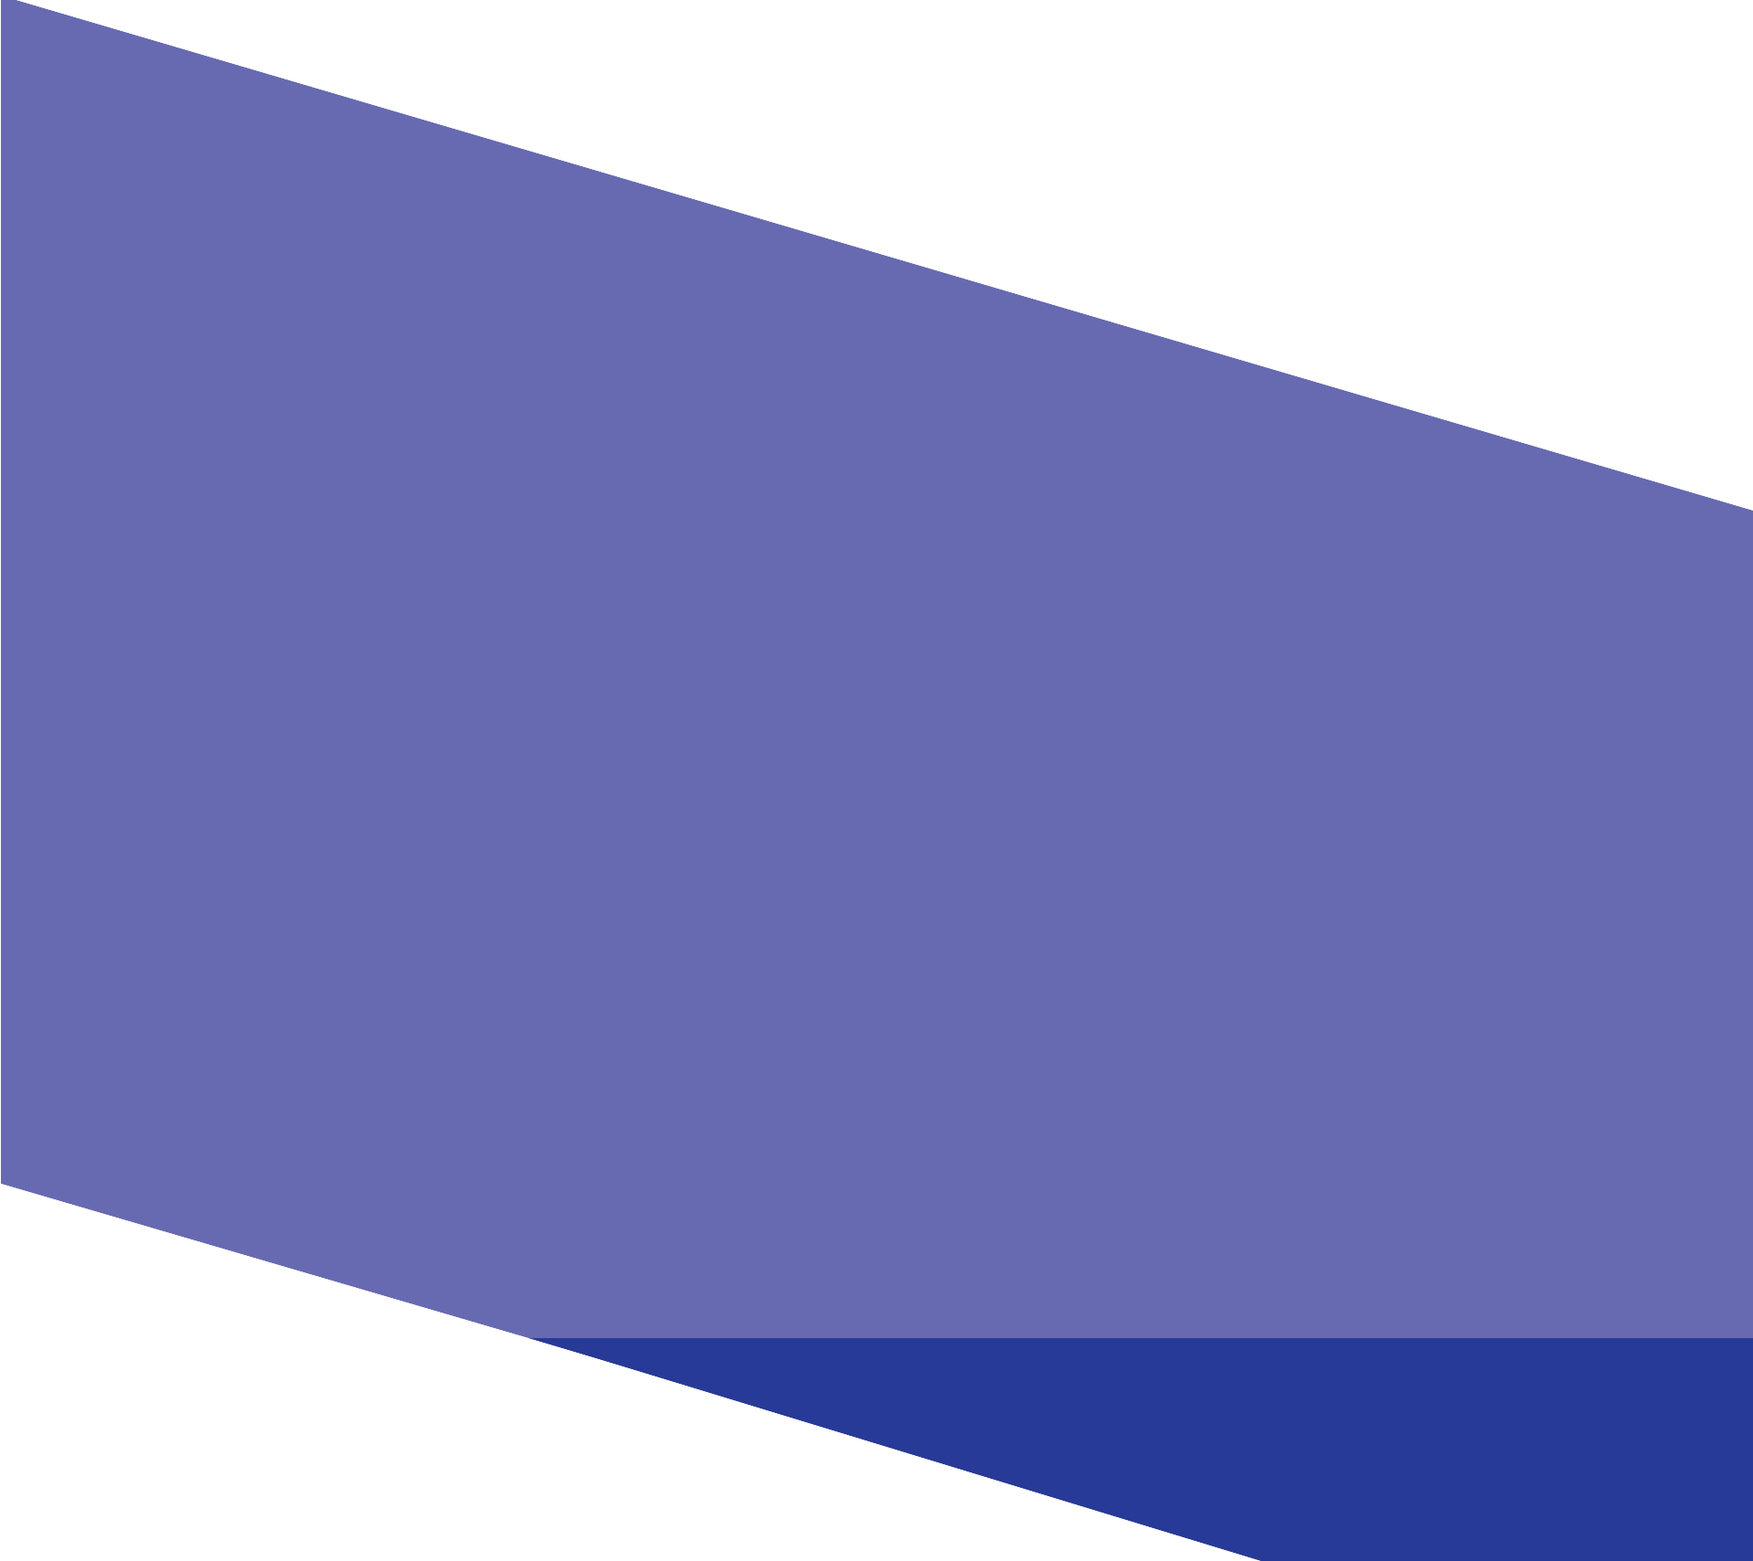
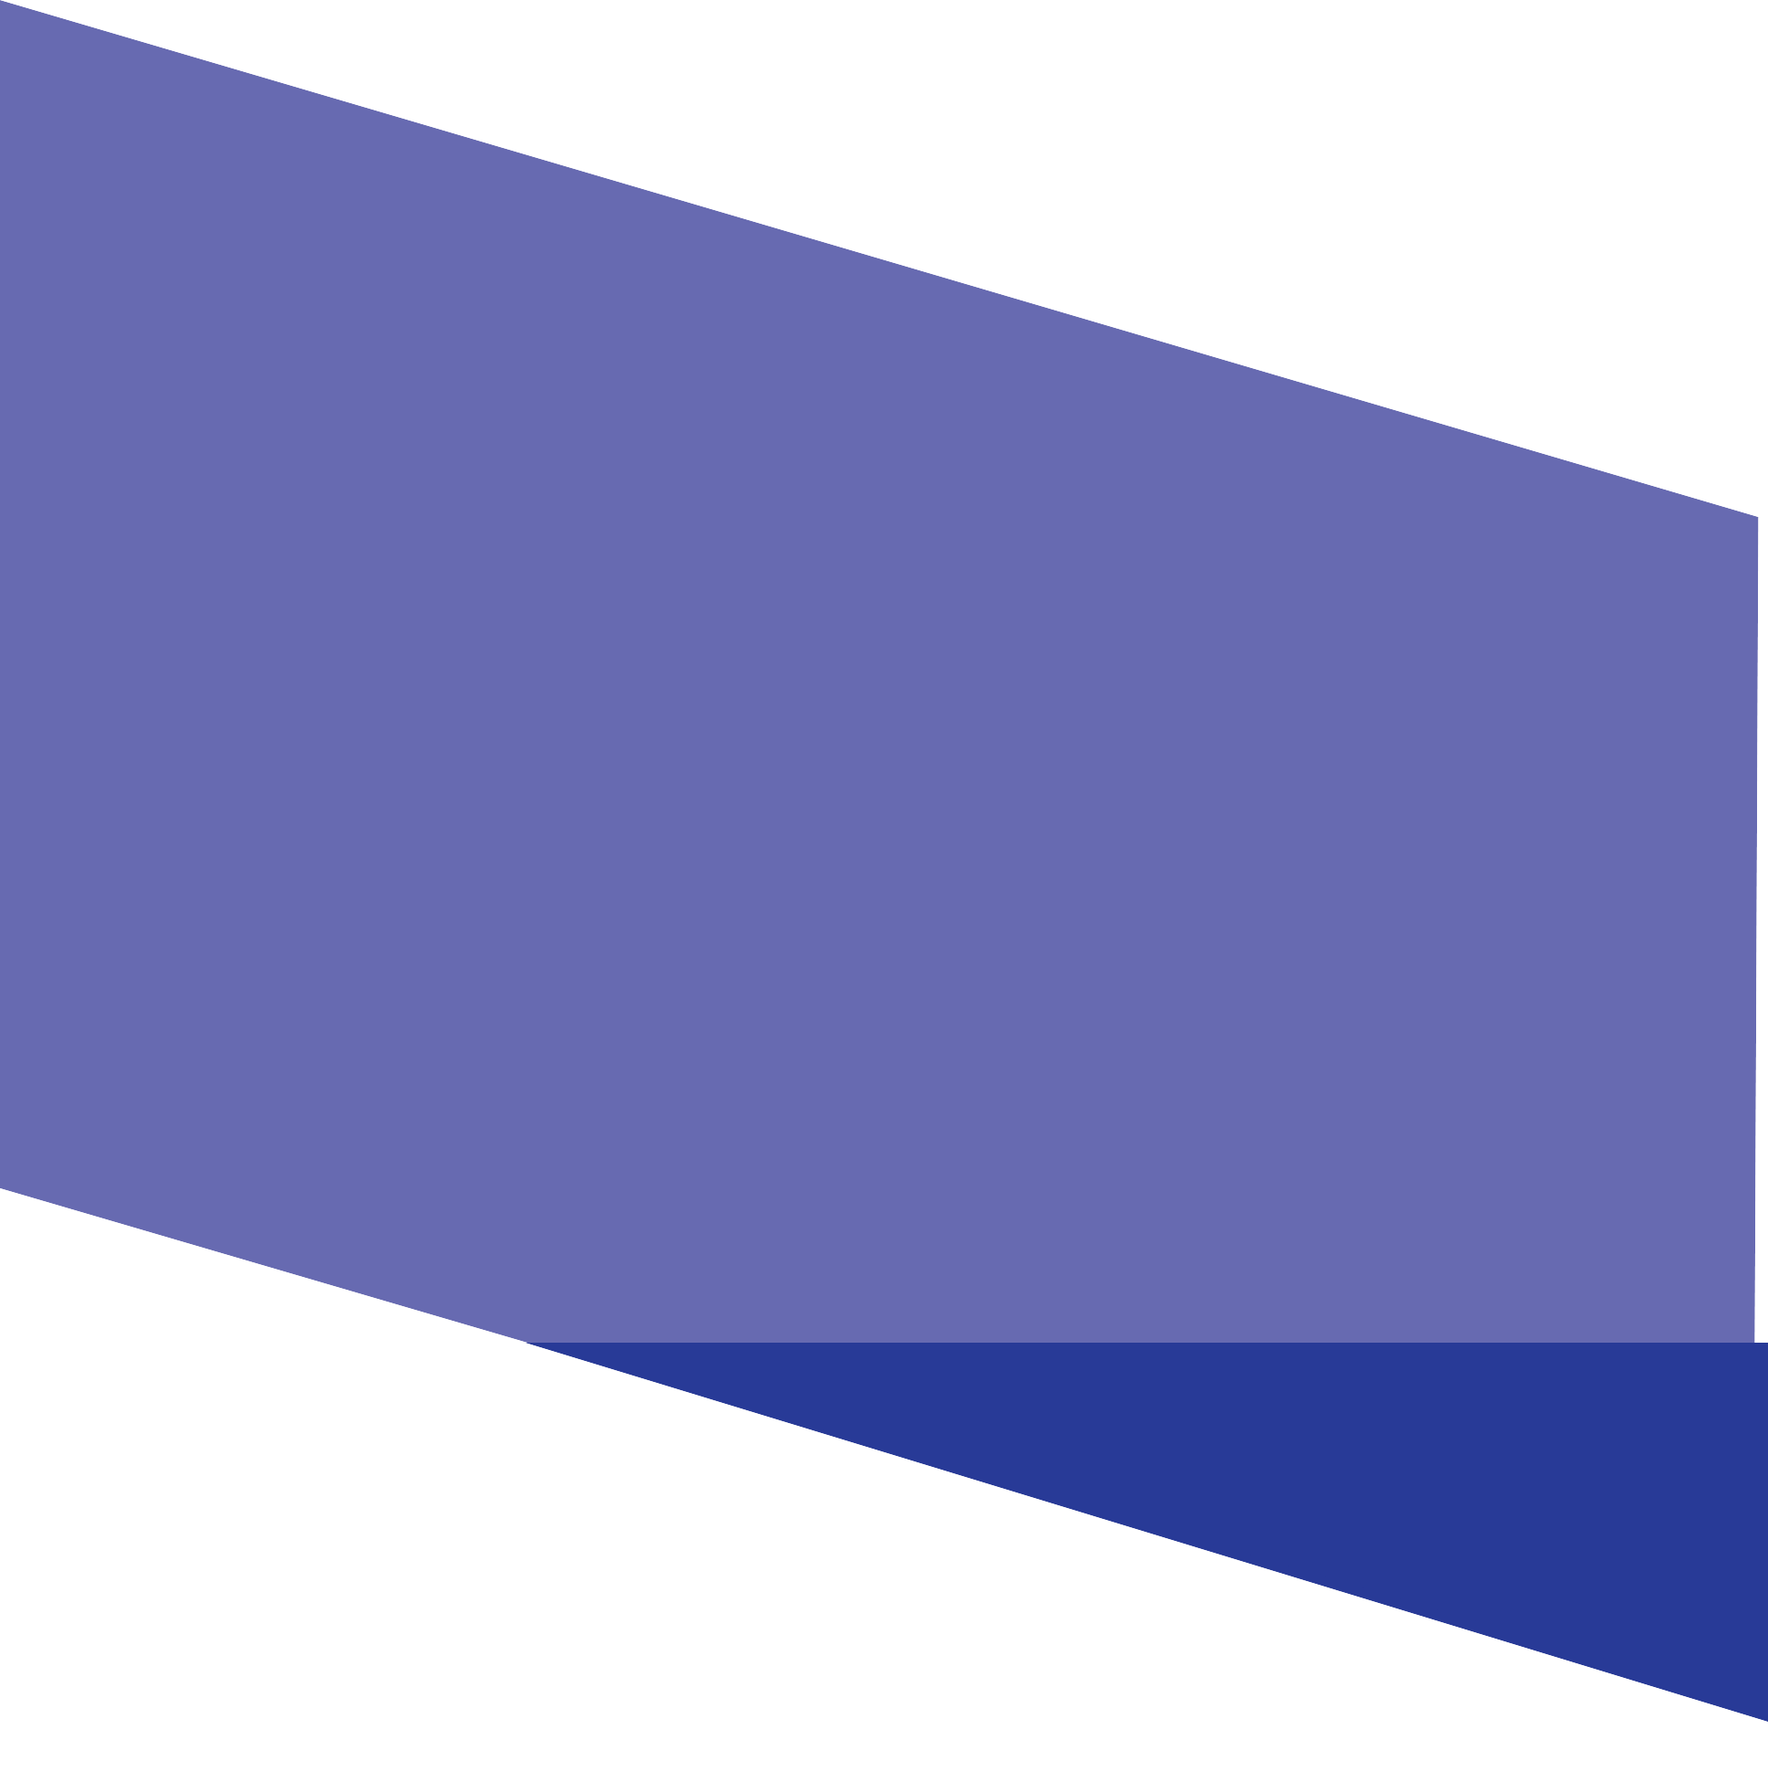
modified awards and achievements

Changed region(s): [[0.0, 0.093, 1.0, 1.0], [0.2152, 0.062, 0.3075, 0.093], [0.1537, 0.031, 0.2152, 0.062]]

diff --git a/src/views/AwardsAndAchievements.js b/src/views/AwardsAndAchievements.js
@@ -1,98 +1,55 @@
-import React from 'react';
-import { Container, Row, Col, Image, Carousel } from 'react-bootstrap';
+import React, { useRef, useState, useEffect } from 'react';
+import useLocoScroll from '../components/hooks/useLocoScroll';
 import '../assets/styles/awardsandachievements.scss';
+import Header from '../components/AwardsAndAchievements/Header';
+import Winner from '../components/AwardsAndAchievements/Winner';
+import Testimonials from '../components/AwardsAndAchievements/Testimonials';
+import FooterMenu from '../components/FooterMenu';
 
-function AwardsAndAchievements() {
+const AwardsAndAchievements = () => {
+
+    const [preloader, setPreloader] = useState(true);
+  
+    useLocoScroll(!preloader);
+  
+    const [timer, setTimer] = useState(1);
+  
+    const id = useRef(null);
+  
+    const clear = () => {
+        window.clearInterval(id.current);
+        setPreloader(false);
+    };
+  
+    useEffect(() => {
+        id.current = window.setInterval(()=>{
+            setTimer((timer) => timer - 1 );
+        }, 1000);
+    }, []);
+  
+  
+    useEffect(() => {
+        if (timer === 0) {
+            clear();
+        }
+    }, [timer]);
+
+
     return (
-        <div className="--awards-and-achievements">
-            <div className="--bg-1">
-                <Container>
-                    <Row>
-                        <Col>
-                            <h1 className="--title">Awards and Client <br/>
-                            Survey Forms</h1>
-                            <p className="--desc">Our awards and recognitions are <br/>
-                            testament to our sterling <br/>
-                            reputation in always delivering high-<br/>
-                            quality work on time.</p>
-                        </Col>
-                    </Row>
-                </Container>
-            </div>
-            <div className="--bg-2">
-                <Container className="--max">
-                    <Row>
-                        <Col>
-                            <Carousel fade>
-                                <Carousel.Item>
-                                    <Row>
-                                        <Col md={7}>
-                                            <Image src={require('../assets/images/awardsandachievements/Awards_IMG-Winner-01.png').default} className="--awards"/>
-                                        </Col>
-                                        <Col>
-                                            <Carousel.Caption className="--text-container">
-                                                <h6 className="--title">Winner</h6>
-                                                <p className="--desc">Excellent contractor award 2015 for <br/>
-                                                infrustructure project costing more <br/>
-                                                than rm10 million and less than rm50 <br/>
-                                                million <br/><br/>
-                                                Middle ring road seremban, negeri <br/>
-                                                sembilan phase 3a</p>
-                                            </Carousel.Caption>
-                                        </Col>
-                                    </Row>
-                                </Carousel.Item>
-                                <Carousel.Item>
-                                    <Row>
-                                        <Col md={7}>
-                                            <Image src={require('../assets/images/awardsandachievements/Awards_IMG-Winner-02.png').default} className="--awards"/>
-                                        </Col>
-                                        <Col>
-                                            <Carousel.Caption className="--text-container">
-                                                <h6 className="--title">First <br/>
-                                                Runner Up</h6>
-                                                <p className="--desc">Excellent contractor award 2015 <br/>
-                                                for infrustructure project costing more <br/>
-                                                than rm50 million <br/><br/>
-                                                Middle ring road seremban, negeri <br/>
-                                                sembilan phase 2b</p>
-                                            </Carousel.Caption>
-                                        </Col>
-                                    </Row>
-                                </Carousel.Item>
-                            </Carousel>
-                        </Col>
-                    </Row>
-                </Container>
-            </div>
-            <div className="--bg-3">
-                <Container className="--max">
-                    <Row>
-                        <Col>
-                            <h1 className="--title">Testimonials</h1>
-                        </Col>
-                    </Row>
-                    <Row>
-                        <Col md={7}>
-                            <Image src={require('../assets/images/awardsandachievements/Awards_IMG-Testimonial-01.png').default} className="--testimonial"/>
-                        </Col>
-                        <Col>
-                            <Carousel.Caption className="--text-container">
-                                <h6 className="--title">"Generally the <br/>
-                                Overall performance <br/>
-                                has been excellent"</h6>
-                                <hr/>
-                                <p className="--desc">Ir Hj Othman Ibrahim, <br/>
-                                Seniour General Manager of <br/>
-                                contruction, special project <br/>
-                                unit I, RoadWorks Division, JKR <br/>
-                                HeadQuarters Malaysia</p>
-                            </Carousel.Caption>
-                        </Col>
-                    </Row>
-                </Container>
-            </div>
+        <>
+        {
+        <div className="--awards-and-achievements
+            main-container"
+            id="main-container"
+            data-scroll-container
+        >
+            <Header/>
+            <Winner/>
+            <Testimonials/>
+            <FooterMenu/>
         </div>
+        }
+        </>
     );
 }
 

diff --git a/src/assets/styles/awardsandachievements.scss b/src/assets/styles/awardsandachievements.scss
@@ -9,18 +9,19 @@
 *
 */
 .--awards-and-achievements {
-    background: url("../images/awardsandachievements/Awards_Shapes-01.png") top 11vw left -24vw,
-    url("../images/awardsandachievements/Awards_Shapes-02.png") top 110vw left -25vw, 
-    url("../images/awardsandachievements/Awards_BG-02.png") top 52vw right -2vw,
-    url("../images/awardsandachievements/Awards_BG-03.png") bottom 0 center,
-    url("../images/awardsandachievements/Awards_BG-01.png") top -7vw right;
-    background-size: 156vw auto, 62vw 33vw, 102vw auto, 100vw auto, 124vw auto;
-    background-repeat: no-repeat, no-repeat, no-repeat, no-repeat, no-repeat;
-    background-attachment: scroll;
-    transition: background 0.3s;
+    // background: url("../images/awardsandachievements/Awards_Shapes-01.png") top 11vw left -24vw,
+    // url("../images/awardsandachievements/Awards_Shapes-02.png") top 110vw left -25vw, 
+    // url("../images/awardsandachievements/Awards_BG-02.png") top 52vw right -2vw,
+    // url("../images/awardsandachievements/Awards_BG-03.png") bottom 0 center,
+    // url("../images/awardsandachievements/Awards_BG-01.png") top -7vw right;
+    // background-size: 156vw auto, 62vw 33vw, 102vw auto, 100vw auto, 124vw auto;
+    // background-repeat: no-repeat, no-repeat, no-repeat, no-repeat, no-repeat;
+    // background-attachment: scroll;
+    // transition: background 0.3s;
+    min-height: 100vh;
     .--bg-1 {
         min-height: 50vw;
-        margin-top: -9.1vw;
+        // margin-top: -9.1vw;
         width: 100%;
         padding: 10vw 0 5vw 0;
         .--title {
@@ -49,6 +50,8 @@
         width: 100%;
         padding-top: 2vw;
         height: 90vw;
+        position: relative;
+        z-index: 3 !important;
         .--max {
             max-width: 75%;
         }
@@ -123,12 +126,8 @@
     .--bg-3 {
         width: 100%;
         padding: 8.5vw 0 10vw 0;
-        height: 105vw;
-        background: url("../images/awardsandachievements/Awards_Shapes-03.png") bottom 0 center;
-        background-size: 100vw auto;
-        background-repeat: no-repeat;
-        background-attachment: scroll;
-        transition: background 0.3s;
+        height: 80vw;
+        z-index: -1 !important;
         .--max {
             max-width: 73%;
         }
@@ -192,6 +191,41 @@
             }
         }
     }
+
+    .header-bg {
+        background: url("../images/awardsandachievements/Awards_BG-01.png")  top -9vw right;
+        background-repeat: no-repeat;
+        background-size: 128vw auto !important;
+        transition: background 0.3s;
+        width: 100%;
+        position: absolute;
+        z-index: -5;
+        height: 116vw;
+        top: 0;
+    }
+    .winner-bg {
+        background: url("../images/awardsandachievements/Awards_BG-02.png")   top 0vw left -2vw;
+        background-repeat: no-repeat;
+        background-size: 108vw 100vw;
+        transition: background 0.3s;
+        width: 100%;
+        position: absolute;
+        height: 115vw;
+        top: 0vw;
+    }
+    .testimonial-bg {
+        background: url("../images/awardsandachievements/Awards_BG-03.png") bottom 0 center;
+        background-size: 100vw auto;
+        background-repeat: no-repeat;
+        background-attachment: scroll;
+        transition: background 0.3s;
+        width: 100%;
+        position: absolute;
+        z-index: -5;
+        height: 115vw;
+        top: -25vw;
+    }
+
     @media (max-width: 992px) {
         background: url("../images/awardsandachievements/Awards_Shapes-01.png") top 11vw left -24vw,
         url("../images/awardsandachievements/Awards_Shapes-02.png") top 110vw left -25vw, 

diff --git a/src/components/AwardsAndAchievements/Winner/index.jsx b/src/components/AwardsAndAchievements/Winner/index.jsx
@@ -1,0 +1,54 @@
+import React from 'react';
+import { Container, Row, Col, Carousel, Image} from 'react-bootstrap';
+
+export default function Winner() {
+    return (
+        <div className="--bg-2" data-scroll-section>
+            <Container className="--max">
+                <Row>
+                    <Col>
+                        <Carousel fade>
+                            <Carousel.Item>
+                                <Row>
+                                    <Col md={7}>
+                                        <Image src={require('../../../assets/images/awardsandachievements/Awards_IMG-Winner-01.png').default} className="--awards"/>
+                                    </Col>
+                                    <Col>
+                                        <Carousel.Caption className="--text-container">
+                                            <h6 className="--title">Winner</h6>
+                                            <p className="--desc">Excellent contractor award 2015 for <br/>
+                                            infrustructure project costing more <br/>
+                                            than rm10 million and less than rm50 <br/>
+                                            million <br/><br/>
+                                            Middle ring road seremban, negeri <br/>
+                                            sembilan phase 3a</p>
+                                        </Carousel.Caption>
+                                    </Col>
+                                </Row>
+                            </Carousel.Item>
+                            <Carousel.Item>
+                                <Row>
+                                    <Col md={7}>
+                                        <Image src={require('../../../assets/images/awardsandachievements/Awards_IMG-Winner-02.png').default} className="--awards"/>
+                                    </Col>
+                                    <Col>
+                                        <Carousel.Caption className="--text-container">
+                                            <h6 className="--title">First <br/>
+                                            Runner Up</h6>
+                                            <p className="--desc">Excellent contractor award 2015 <br/>
+                                            for infrustructure project costing more <br/>
+                                            than rm50 million <br/><br/>
+                                            Middle ring road seremban, negeri <br/>
+                                            sembilan phase 2b</p>
+                                        </Carousel.Caption>
+                                    </Col>
+                                </Row>
+                            </Carousel.Item>
+                        </Carousel>
+                    </Col>
+                </Row>
+            </Container>
+            <div className="winner-bg"/>
+        </div>
+    )
+}

diff --git a/src/components/AwardsAndAchievements/Testimonials/index.jsx b/src/components/AwardsAndAchievements/Testimonials/index.jsx
@@ -1,0 +1,35 @@
+import React from 'react';
+import { Container, Row, Col, Image, Carousel } from 'react-bootstrap';
+
+export default function Testimonials() {
+    return (
+        <div className="--bg-3" data-scroll-section>
+            <Container className="--max">
+                <Row>
+                    <Col>
+                        <h1 className="--title" data-scroll data-scroll-speed="2">Testimonials</h1>
+                    </Col>
+                </Row>
+                <Row>
+                    <Col md={7}>
+                        <Image  data-scroll data-scroll-speed="2" src={require('../../../assets/images/awardsandachievements/Awards_IMG-Testimonial-01.png').default} className="--testimonial"/>
+                    </Col>
+                    <Col>
+                        <Carousel.Caption  data-scroll data-scroll-speed="2" className="--text-container">
+                            <h6 className="--title">"Generally the <br/>
+                            Overall performance <br/>
+                            has been excellent"</h6>
+                            <hr/>
+                            <p className="--desc">Ir Hj Othman Ibrahim, <br/>
+                            Seniour General Manager of <br/>
+                            contruction, special project <br/>
+                            unit I, RoadWorks Division, JKR <br/>
+                            HeadQuarters Malaysia</p>
+                        </Carousel.Caption>
+                    </Col>
+                </Row>
+            </Container>
+            <div className="testimonial-bg"/>
+        </div>
+    )
+}

diff --git a/src/components/AwardsAndAchievements/Header/index.jsx b/src/components/AwardsAndAchievements/Header/index.jsx
@@ -1,0 +1,24 @@
+import React from 'react';
+import { Container, Row, Col} from 'react-bootstrap';
+import Navigation from '../../Navigation';
+
+export default function Header() {
+    return (
+        <div className="--bg-1" data-scroll-section>
+            <Navigation/>
+            <Container>
+                <Row>
+                    <Col>
+                        <h1 className="--title" data-scroll data-scroll-speed="1">Awards and Client <br/>
+                        Survey Forms</h1>
+                        <p className="--desc" data-scroll data-scroll-speed="1">Our awards and recognitions are <br/>
+                        testament to our sterling <br/>
+                        reputation in always delivering high-<br/>
+                        quality work on time.</p>
+                    </Col>
+                </Row>
+            </Container>
+            <div className="header-bg"/>
+        </div>
+    )
+}

diff --git a/src/assets/styles/footer.scss b/src/assets/styles/footer.scss
@@ -11,6 +11,7 @@
 
 .--footer {
     padding: 3vw 0 4.4vw 0;
+    background-color: #ffffff;
     .--max {
         max-width: 91%;
     }
